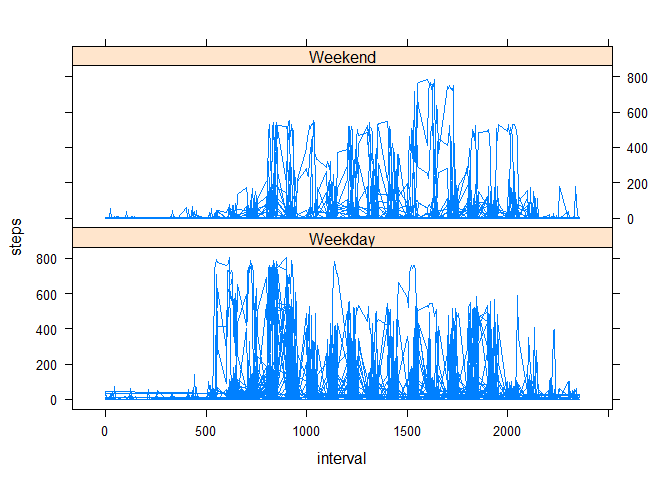
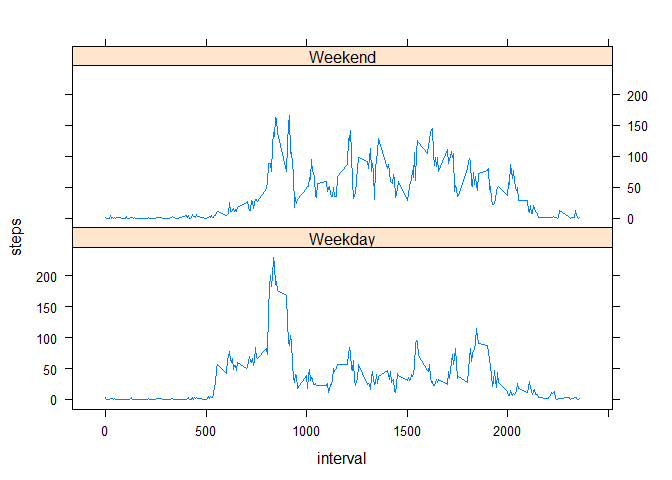
Correcting final plot

diff --git a/PA1_template.html b/PA1_template.html
@@ -71,7 +71,6 @@ img {
 <li><a href="#loading-and-preprocessing-the-data">Loading and preprocessing the data</a></li>
 <li><a href="#what-is-mean-total-number-of-steps-taken-per-day">What is mean total number of steps taken per day?</a></li>
 <li><a href="#what-is-the-average-daily-activity-pattern">What is the average daily activity pattern?</a></li>
-<li><a href="#calculating-daily-average-steps-by-interval">Calculating Daily Average Steps by Interval</a></li>
 <li><a href="#imputing-missing-values">Imputing missing values</a></li>
 <li><a href="#are-there-differences-in-activity-patterns-between-weekdays-and-weekends">Are there differences in activity patterns between weekdays and weekends?</a></li>
 </ul>
@@ -101,9 +100,8 @@ steps_median &lt;- median(steptotals$steps)</code></pre>
 </div>
 <div id="what-is-the-average-daily-activity-pattern" class="section level2">
 <h2>What is the average daily activity pattern?</h2>
-</div>
-<div id="calculating-daily-average-steps-by-interval" class="section level2">
-<h2>Calculating Daily Average Steps by Interval</h2>
+<div id="calculating-daily-average-steps-by-interval" class="section level3">
+<h3>Calculating Daily Average Steps by Interval</h3>
 <p>Preparing dataset for time series plotting:</p>
 <pre class="r"><code>library(dplyr)</code></pre>
 <pre><code>## 
@@ -117,6 +115,7 @@ steps_median &lt;- median(steptotals$steps)</code></pre>
 ## 
 ##     intersect, setdiff, setequal, union</code></pre>
 <pre class="r"><code>dailyavgs &lt;- summarize(group_by(activity, interval), steps = mean(steps, na.rm = TRUE))</code></pre>
+</div>
 <div id="time-series-plot" class="section level3">
 <h3>Time Series Plot</h3>
 <p>Time series plot of average steps per 5-minute intervals:</p>
@@ -182,8 +181,8 @@ activity_filled &lt;- mutate(activity_filled, dayclass = factor(dayclass))</code
 <p>Panel plot comparing average daily steps per interval for weekdays vs. weekends.</p>
 <pre class="r"><code>weeklyavgs &lt;- summarize(group_by(activity_filled, dayclass, interval), steps = mean(steps, na.rm = TRUE))
 library(lattice)
-xyplot(steps ~ interval | dayclass, data = activity_filled, layout = c(1,2), type =&quot;l&quot;)</code></pre>
[1 lines of base64/hex data omitted]
+xyplot(steps ~ interval | dayclass, data = weeklyavgs, layout = c(1,2), type =&quot;l&quot;)</code></pre>
[1 lines of base64/hex data omitted]
 </div>
 </div>
 

diff --git a/PA1_template.md b/PA1_template.md
@@ -38,7 +38,7 @@ The mean total number of steps per day is 10766.1886792 and the median is 10765.
 
 ## What is the average daily activity pattern?
 
-## Calculating Daily Average Steps by Interval
+### Calculating Daily Average Steps by Interval
 
 Preparing dataset for time series plotting: 
 
@@ -164,7 +164,7 @@ Panel plot comparing average daily steps per interval for weekdays vs. weekends.
 ```r
 weeklyavgs <- summarize(group_by(activity_filled, dayclass, interval), steps = mean(steps, na.rm = TRUE))
 library(lattice)
-xyplot(steps ~ interval | dayclass, data = activity_filled, layout = c(1,2), type ="l")
+xyplot(steps ~ interval | dayclass, data = weeklyavgs, layout = c(1,2), type ="l")
 ```
 
 ![](PA1_template_files/figure-html/unnamed-chunk-12-1.png) 
